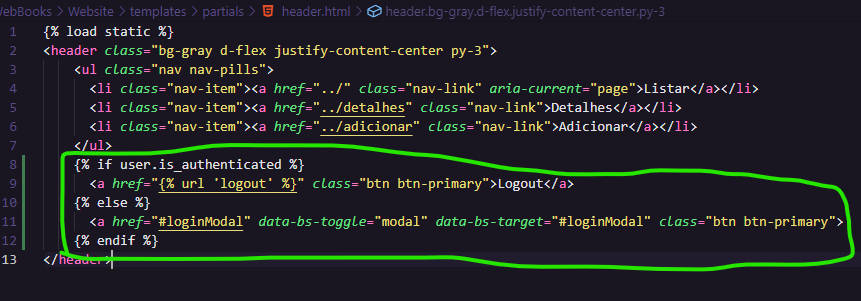
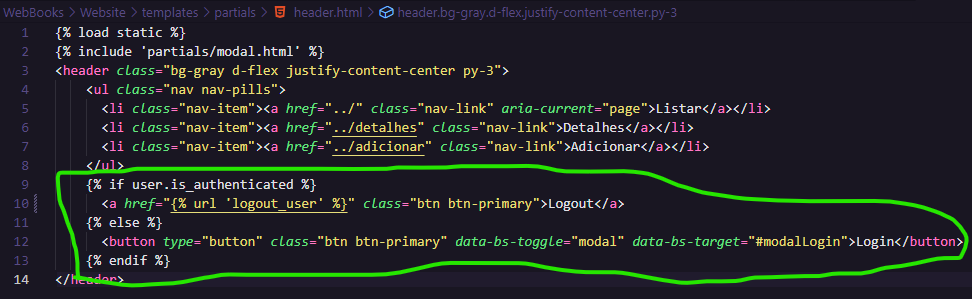
Refazendo e reajustando a fase 9, ainda não terminado

diff --git a/WebBooks/Website/templates/partials/modal.html b/WebBooks/Website/templates/partials/modal.html
@@ -8,19 +8,18 @@
         </div>
         <div class="modal-body">
           <!-- Formulário de Login -->
-          <form method="post">
+          <form method="POST" action="{% url 'login_user' %}">
             {% csrf_token %}
-            {{ login_form.username.label_tag }}
-            {{ login_form.username }}
+            {{ login_form.username_email.label_tag }}
+            {{ login_form.username_email }}
             {{ login_form.password.label_tag }}
             {{ login_form.password }}
             <div class="modal-footer">
-                <button type="button" class="btn btn-secondary" data-bs-dismiss="modal">Cancelar</button>
-                <button type="submit" class="btn btn-primary">Entrar</button>
-              </div>
+              <button type="button" class="btn btn-secondary" data-bs-dismiss="modal">Cancelar</button>
+              <button type="submit" class="btn btn-primary">Entrar</button>
+            </div>
           </form>
         </div>
-        
       </div>
     </div>
 </div>

diff --git a/WebBooks/Website/templates/partials/header.html b/WebBooks/Website/templates/partials/header.html
@@ -7,7 +7,7 @@
       <li class="nav-item"><a href="../adicionar" class="nav-link">Adicionar</a></li>
     </ul>
     {% if user.is_authenticated %}
-      <a href="{% url 'logout' %}" class="btn btn-primary">Logout</a>
+      <a href="{% url 'logout_user' %}" class="btn btn-primary">Logout</a>
     {% else %}
       <button type="button" class="btn btn-primary" data-bs-toggle="modal" data-bs-target="#modalLogin">Login</button>
     {% endif %}

diff --git a/WebBooks/Website/views.py b/WebBooks/Website/views.py
@@ -1,7 +1,8 @@
-from django.shortcuts import render, redirect
 from .models import Livro
 from .forms import LivroForm, LoginForm
+from django.shortcuts import render, redirect
 from django.contrib.auth import login, authenticate, logout
+from django.contrib import messages
 # Create your views here.
 
 def lista_livros(request):
@@ -36,30 +37,29 @@ def adicionar_livro(request):
     return render(request, 'adicionar_livro.html', {'livro_form': livro_form, 'login_form': login_form})
 
 def login_view(request):
+    login_form = LoginForm()
+
     if request.method == 'POST':
-        login_form = LoginForm(request, request.POST)
-        if login_form.is_valid():
-            username_email = login_form.cleaned_data['username_email']
-            password = login_form.cleaned_data['password']
-            # Verifica se o username_email parece ser um email
-            if '@' in username_email :
-                user = authenticate(request, email=username_email , password=password)
-            else:
-                user = authenticate(request, username=username_email , password=password)
+        login_form = LoginForm(request.POST)
 
-            if user is not None:
-                login(request, user)
-                # Redirecione para a url desejada após o login bem-sucedido
-                messages.success(request, 'Login bem-sucedido!')
-                return redirect('detalhes')
-            else:
-                # Usuário ou senha incorretos, você pode adicionar uma mensagem de erro aqui
-                messages.error(request, 'Credenciais incorretas. Tente novamente.')
-                return render(request, 'livro_detalhes.html')
+    if login_form.is_valid():
+        username_or_email = login_form['username_email'].value()
+        password = login_form['password'].value()
+        # Verifica se o username_or_email parece ser um email
+        if '@' in username_or_email:
+            usuario = auth.authenticate(request, email=username_or_email, password=password)
         else:
-            messages.error(request, 'Credenciais incorretas. Tente novamente.')
+            usuario = auth.authenticate(request, username=username_or_email, password=password)
 
-    return render(request, 'livro_detalhes.html')
+        if usuario is not None:
+            auth.login(request, usuario)
+            messages.success(request, 'Foi logado com sucesso!')                # Redirecione para a url desejada após o login bem-sucedido
+            return redirect('lista_livros')
+        else:
+            # Usuário ou senha incorretos, você pode    adicionar uma mensagem de erro aqui                messages.error(request, 'Erro ao efetuar login')
+            return render(request, 'livro_detalhes.html')
+
+    return render(request, 'livro_detalhes.html', {'login_form' : login_form})
 
 def logout_view(request):
     logout(request)

diff --git a/WebBooks/Website/urls.py b/WebBooks/Website/urls.py
@@ -1,6 +1,6 @@
 from django.urls import path
 from . import views
-from django.contrib.auth import views as auth_views
+
 
 urlpatterns = [
     path('', views.lista_livros, name='lista_livros'),
@@ -8,6 +8,6 @@ urlpatterns = [
     # ----- FORM Livro
     path('adicionar/', views.adicionar_livro, name="adicionar_livro"),
     # ----- Login / Logout Auth
-    path('login/', views.login_view, name='login'),
-    path('logout/', views.logout_view, name='logout'),
+    path('login_user/', views.login_view, name='login_user'),
+    path('logout_user/', views.logout_view, name='logout_user'),
 ]

diff --git a/README.md b/README.md
@@ -1544,8 +1544,8 @@ urlpatterns = [
 ```bash
 urlpatterns = [
     # Outras URLs
-    path('login/', views.login_view, name='login'),
-    path('logout/', views.logout_view, name='logout'),
+    path('login_user/', views.login_view, name='login_user'),
+    path('logout_user/', views.logout_view, name='logout_user'),
 ]
 ```
 Exemplo:
@@ -1563,7 +1563,7 @@ Exemplo:
       <li class="nav-item"><a href="../adicionar" class="nav-link">Adicionar</a></li>
     </ul>
     {% if user.is_authenticated %}
-      <a href="{% url 'logout' %}" class="btn btn-primary">Logout</a>
+      <a href="{% url 'logout_user' %}" class="btn btn-primary">Logout</a>
     {% else %}
       <button type="button" class="btn btn-primary" data-bs-toggle="modal" data-bs-target="#modalLogin">Login</button>
     {% endif %}
@@ -1574,7 +1574,7 @@ Exemplo:
 <img src="README-assets/ex90.png" alt="Exemplo90">
 
 > - **{% if user.is_authenticated %}:** Isso é uma declaração condicional em Django Template Language (DTL). Aqui, estamos verificando se o usuário atual está autenticado, ou seja, se já fez login. Se o usuário estiver autenticado, o bloco de código dentro deste `if` será executado.
-> - **<a href="{% url 'logout' %}" class="btn btn-primary">Logout</a>:** Dentro do bloco `if`, estamos criando um link `(<a>)` que levará o usuário para a URL de logout. A URL é definida com `{% url 'logout' %}`, que se refere à visualização de `logout` do Django. Além disso, a classe "`btn btn-primary`" é aplicada para estilizar o link como um botão.
+> - **<a href="{% url 'logout_user' %}" class="btn btn-primary">Logout</a>:** Dentro do bloco `if`, estamos criando um link `(<a>)` que levará o usuário para a URL de logout_user. A URL é definida com `{% url 'logout_user' %}`, que se refere à visualização de `logout_user` do Django. Além disso, a classe "`btn btn-primary`" é aplicada para estilizar o link como um botão.
 > - **{% else %}:** Esta parte é executada se o usuário não estiver autenticado (ou seja, o inverso da condição no `if`).
 > - **<button type="button" class="btn btn-primary" data-bs-toggle="modal" data-bs-target="#modalLogin">Login</button>:** Se o usuário não estiver autenticado, esta linha de código cria um botão `<button>` com o texto "`Login`". Os atributos `data-bs-toggle="modal"` e `data-bs-target="#modalLogin"` são parte do Bootstrap e são usados para ativar o modal quando o botão é clicado. O `class="btn btn-primary"` estiliza o link como um botão primário.
 
@@ -1595,29 +1595,37 @@ Exemplo:
 
 **login_view:**
 ```bash
-from django.contrib.auth import login, authenticate
+from django.contrib.auth import login, authenticate, logout
 from django.shortcuts import render, redirect
+from django.contrib import messages
 
 def login_view(request):
+    user_form = LoginForm()
+
     if request.method == 'POST':
-        username_or_email = request.POST['username_email']
-        password = request.POST['password']
+        user_form = LoginForm(request.POST)
 
-        # Verifica se o username_or_email parece ser um email
-        if '@' in username_or_email:
-            user = authenticate(request, email=username_or_email, password=password)
-        else:
-            user = authenticate(request, username=username_or_email, password=password)
+        if user_form.is_valid():
 
-        if user is not None:
-            login(request, user)
-            # Redirecione para a url desejada após o login bem-sucedido
-            return redirect('detalhes')
-        else:
-            # Usuário ou senha incorretos, você pode adicionar uma mensagem de erro aqui
-            return render(request, 'lista_livros.html', {'error_message': 'Credenciais inválidas'})
+            username_or_email = user_form['username_email'].value()
+            password = user_form['password'].value()
+            # Verifica se o username_or_email parece ser um email
+            if '@' in username_or_email:
+                usuario = auth.authenticate(request,    email=username_or_email, password=password)
+            else:
+                usuario = auth.authenticate(request,    username=username_or_email, password=password)
 
-    return render(request, 'livro_detalhes.html')
+            if usuario is not None:
+                auth.login(request, usuario)
+                messages.success(request, 'Foi logado com sucesso!')
+                # Redirecione para a url desejada após o login bem-sucedido
+                return redirect('detalhes')
+            else:
+                # Usuário ou senha incorretos, você pode    adicionar uma mensagem de erro aqui
+                messages.error(request, 'Erro ao efetuar login')
+                return render(request, 'livro_detalhes.html')
+
+        return render(request, 'livro_detalhes.html', {'user_form' : user_form})
 ```
 Exemplo:
 
@@ -1625,10 +1633,10 @@ Exemplo:
 
 **logout_view:**
 ```bash
-from django.contrib.auth import logout
 
 def logout_view(request):
-    logout(request)
+    auth.logout(request)
+    messages.success(request, 'Logout efetuado com sucesso!')
     # Redirecione para a página desejada após o logout.
     return redirect('detalhes')
 ```
